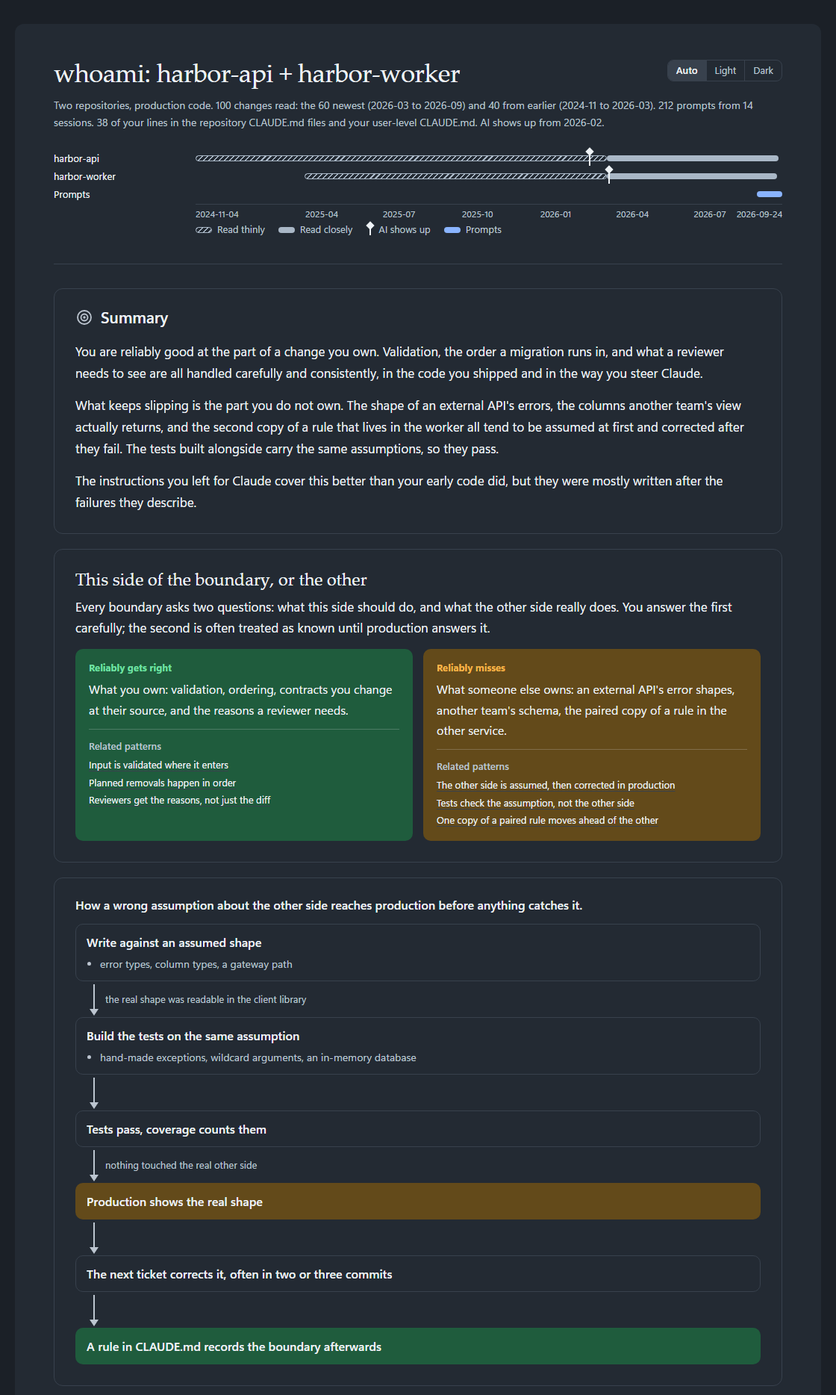
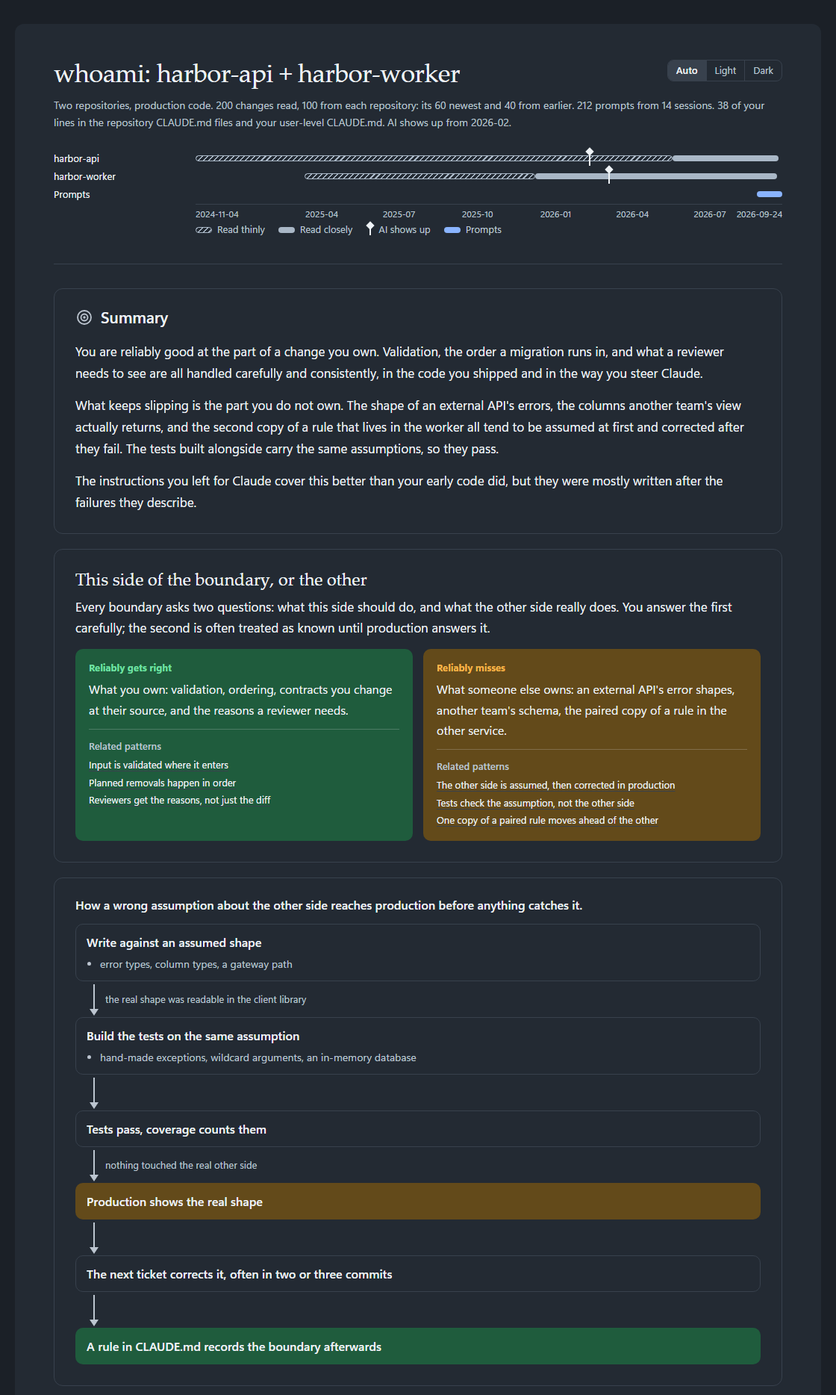
read up to 100 whoami changes per repository

Changed region(s): [[0.0625, 0.0621, 0.875, 0.0931]]

diff --git a/plugins/whoami/skills/whoami/tests/render_report_tests.py b/plugins/whoami/skills/whoami/tests/render_report_tests.py
@@ -1663,8 +1663,8 @@ def _timeline(*repositories, **extra):
 def _tl_full():
     """A timeline with every part over 2026-01-01 to 2026-04-11, which is exactly 100 days,
     so a day's offset from the first date is its position in percent."""
-    return _timeline(_tl_repo("repo-a", "2026-01-01", "2026-04-11", ai_from="2026-01-21"),
-                     recent_from="2026-03-02", prompts={"from": "2026-03-22", "to": "2026-04-11"})
+    return _timeline(_tl_repo("repo-a", "2026-01-01", "2026-04-11", ai_from="2026-01-21", recent_from="2026-03-02"),
+                     prompts={"from": "2026-03-22", "to": "2026-04-11"})
 
 
 def _tl_html(timeline, labels=None):
@@ -1784,12 +1784,29 @@ def test_validation_timeline_dates():
                  where + ": 'ai_from' is not a date written YYYY-MM-DD")
 
     check("no recent_from valid", rr.validate(_doc(timeline=_timeline(repo))), [])
-    # recent_from may fall outside every repository, which reads as every change read closely or thinly
-    check("recent_from outside every span valid",
-          rr.validate(_doc(timeline=_timeline(repo, recent_from="2025-12-01"))), [])
+    # recent_from is the date of one of the repository's own changes, so a day before its span cannot be one
+    _invalid("recent_from before from", _doc(timeline=_timeline(dict(repo, recent_from="2025-12-01"))),
+             where + ": 'recent_from' is outside 'from' to 'to'")
+    _invalid("recent_from after to", _doc(timeline=_timeline(dict(repo, recent_from="2026-05-01"))),
+             where + ": 'recent_from' is outside 'from' to 'to'")
+    # the span's own ends are dates of changes read, so both bounds are inclusive
+    check("recent_from equal to from valid", rr.validate(_doc(timeline=_timeline(dict(repo, recent_from="2026-01-01")))), [])
+    check("recent_from equal to to valid", rr.validate(_doc(timeline=_timeline(dict(repo, recent_from="2026-04-11")))), [])
+    check("null recent_from valid", rr.validate(_doc(timeline=_timeline(dict(repo, recent_from=None)))), [])
     for value in bad:
-        _invalid("recent_from %r" % (value,), _doc(timeline=_timeline(repo, recent_from=value)),
-                 "timeline: 'recent_from' is not a date written YYYY-MM-DD")
+        _invalid("recent_from %r" % (value,), _doc(timeline=_timeline(dict(repo, recent_from=value))),
+                 where + ": 'recent_from' is not a date written YYYY-MM-DD")
+    # a reversed span has no inside, so every recent_from would fall outside it unless the check is skipped,
+    # and one defect should give one message
+    for value in ("2026-04-01", "2026-04-11", "2026-04-12", "2026-05-01"):
+        _invalid("recent_from %s on a reversed span" % value,
+                 _doc(timeline=_timeline(_tl_repo("repo-a", "2026-04-12", "2026-04-11", recent_from=value))),
+                 where + ": 'from' is after 'to'")
+
+    # a well-formed date inside the repository's span, so the only thing wrong is where it sits
+    _invalid("recent_from on the timeline itself", _doc(timeline=_timeline(repo, recent_from="2026-03-02")),
+             "timeline: 'recent_from' belongs on each repository")
+    check("null recent_from on the timeline itself valid", rr.validate(_doc(timeline=_timeline(repo, recent_from=None))), [])
 
     prompts = {"from": "2026-03-22", "to": "2026-04-11"}
     check("no prompts valid", rr.validate(_doc(timeline=_timeline(repo))), [])
@@ -1813,10 +1830,10 @@ def test_validation_timeline_dates():
 def test_validation_timeline_problem_order():
     timeline = _timeline(_tl_repo("repo-a", "2026-04-12", "2026-04-11"), 7,
                          {"name": "", "from": "2026-1-1", "to": "2026-02-30", "ai_from": "soon"},
-                         recent_from="2026-13-01", prompts={"from": "2026-04-11", "to": "2026-04-01"})
+                         recent_from="2026-03-01", prompts={"from": "2026-04-11", "to": "2026-04-01"})
     doc = _without(_doc(diagrams=[{"lanes": [_lane([_step("a")])]}], timeline=timeline), "scope")
     # written by hand in the order the schema is walked: the diagrams, then each repository field by field,
-    # then recent_from, then the prompts, then the scope
+    # then the recent_from the timeline itself carries, then the prompts, then the scope
     _invalid_all("timeline problems between the diagrams and the scope", doc, [
         "diagrams[0]: 'caption' is missing or empty",
         "timeline.repositories[0]: 'from' is after 'to'",
@@ -1825,9 +1842,26 @@ def test_validation_timeline_problem_order():
         "timeline.repositories[2]: 'from' is not a date written YYYY-MM-DD",
         "timeline.repositories[2]: 'to' is not a date written YYYY-MM-DD",
         "timeline.repositories[2]: 'ai_from' is not a date written YYYY-MM-DD",
-        "timeline: 'recent_from' is not a date written YYYY-MM-DD",
+        "timeline: 'recent_from' belongs on each repository",
         "timeline.prompts: 'from' is after 'to'",
         "document: 'scope' is missing or empty"])
+
+    # on the second repository, so a path built from the wrong counter names the wrong one
+    timeline = _timeline(_tl_repo("repo-a", "2026-01-01", "2026-04-11"),
+                         _tl_repo("repo-b", "2026-01-01", "2026-04-11", ai_from="soon", recent_from="2026-05-01"))
+    # written by hand in the order the validator reads the fields: ai_from before recent_from
+    _invalid_all("a repository's ai_from before its recent_from", _doc(timeline=timeline), [
+        "timeline.repositories[1]: 'ai_from' is not a date written YYYY-MM-DD",
+        "timeline.repositories[1]: 'recent_from' is outside 'from' to 'to'"])
+
+    # both dates malformed, so the order of the two date checks shows,
+    # where the well-formed recent_from above only shows the span check coming after both
+    timeline = _timeline(_tl_repo("repo-a", "2026-01-01", "2026-04-11"),
+                         _tl_repo("repo-b", "2026-01-01", "2026-04-11", ai_from="soon", recent_from="2026-02-30"))
+    # written by hand in the order the validator reads the fields: ai_from before recent_from
+    _invalid_all("a repository's malformed ai_from before its malformed recent_from", _doc(timeline=timeline), [
+        "timeline.repositories[1]: 'ai_from' is not a date written YYYY-MM-DD",
+        "timeline.repositories[1]: 'recent_from' is not a date written YYYY-MM-DD"])
 
 
 def test_timeline_html_full():
@@ -1840,7 +1874,7 @@ def test_timeline_html_full():
 def test_timeline_thin_close_split():
     repo = _tl_repo("repo-a", "2026-01-01", "2026-04-11")
     # written by hand over the 100 days from 2026-01-01, where 2026-03-02 is day 60.
-    # recent_from outside the span leaves the domain alone, or these positions would shift
+    # recent_from never enters the domain, or these positions would shift
     for name, recent, want in (
             ("no recent_from draws one close bar", None,
              _seg("close", "0.00", "100.00", "2026-01-01", "2026-04-11")),
@@ -1850,27 +1884,26 @@ def test_timeline_thin_close_split():
             ("recent_from on the last day draws only thin", "2026-04-11",
              _seg("thin", "0.00", "100.00", "2026-01-01", "2026-04-11")),
             ("recent_from on the first day draws only close", "2026-01-01",
-             _seg("close", "0.00", "100.00", "2026-01-01", "2026-04-11")),
-            ("recent_from before the span draws only close from the start", "2025-12-01",
-             _seg("close", "0.00", "100.00", "2026-01-01", "2026-04-11")),
-            ("recent_from after the span draws only thin up to the end", "2026-05-01",
-             _seg("thin", "0.00", "100.00", "2026-01-01", "2026-04-11"))):
+             _seg("close", "0.00", "100.00", "2026-01-01", "2026-04-11"))):
         extra = {"recent_from": recent} if recent else {}
-        figure = _tl_html(_timeline(repo, **extra))
+        figure = _tl_html(_timeline(dict(repo, **extra)))
         check(name, _tl_track(figure, "repo-a"), want)
         check(name + ": the axis still ends on the repository's dates",
               ('<span class="tl-tick start">2026-01-01</span>' in figure, '<span class="tl-tick end">2026-04-11</span>' in figure),
               (True, True))
 
-    # one recent_from cuts each repository by its own span
-    figure = _tl_html(_timeline(repo, _tl_repo("repo-b", "2026-03-22", "2026-04-11"),
-                                _tl_repo("repo-c", "2026-01-01", "2026-01-21"), recent_from="2026-03-02"))
-    # written by hand: repo-b starts on day 80, after recent_from, and repo-c ends on day 20, before it
+    # each repository carries its own recent_from, so each row is cut at its own boundary
+    figure = _tl_html(_timeline(dict(repo, recent_from="2026-03-02"),
+                                _tl_repo("repo-b", "2026-03-22", "2026-04-11", recent_from="2026-04-01"),
+                                _tl_repo("repo-c", "2026-01-01", "2026-01-21")))
+    # written by hand: repo-a is cut on day 60 (2026-03-02), repo-b runs from day 80 and is cut on day 90 (2026-04-01),
+    # and repo-c, with no recent_from, is one close bar from day 0 to day 20
     check("each repository split by its own span", [_tl_track(figure, n) for n in ("repo-a", "repo-b", "repo-c")], [
         _seg("thin", "0.00", "60.00", "2026-01-01", "2026-03-02")
         + _seg("close", "60.00", "40.00", "2026-03-02", "2026-04-11"),
-        _seg("close", "80.00", "20.00", "2026-03-22", "2026-04-11"),
-        _seg("thin", "0.00", "20.00", "2026-01-01", "2026-01-21")])
+        _seg("thin", "80.00", "10.00", "2026-03-22", "2026-04-01")
+        + _seg("close", "90.00", "10.00", "2026-04-01", "2026-04-11"),
+        _seg("close", "0.00", "20.00", "2026-01-01", "2026-01-21")])
     check("a row per repository in document order, then the axis", _tl_names(figure), ["repo-a", "repo-b", "repo-c", ""])
 
 
@@ -1919,13 +1952,13 @@ def test_timeline_legend():
     # written by hand: only the key for what the figure draws
     check("a close bar alone keys only close", _tl_legend(_tl_html(_timeline(repo))),
           '<span class="tl-key"><i class="tl-seg close"></i>Read closely</span>')
-    check("a thin bar alone keys only thin", _tl_legend(_tl_html(_timeline(repo, recent_from="2026-04-11"))),
+    check("a thin bar alone keys only thin", _tl_legend(_tl_html(_timeline(dict(repo, recent_from="2026-04-11")))),
           '<span class="tl-key"><i class="tl-seg thin"></i>Read thinly</span>')
 
     # the kinds are drawn close, then AI, then thin, then prompts, so a legend in drawing order would differ
-    figure = _tl_html(_timeline(_tl_repo("repo-a", "2026-03-22", "2026-04-11", ai_from="2026-04-01"),
-                                _tl_repo("repo-b", "2026-01-01", "2026-03-22"),
-                                recent_from="2026-03-22", prompts={"from": "2026-01-01", "to": "2026-01-21"}))
+    figure = _tl_html(_timeline(_tl_repo("repo-a", "2026-03-22", "2026-04-11", ai_from="2026-04-01", recent_from="2026-03-22"),
+                                _tl_repo("repo-b", "2026-01-01", "2026-03-22", recent_from="2026-03-22"),
+                                prompts={"from": "2026-01-01", "to": "2026-01-21"}))
     check("fixture: close is drawn before thin", (_tl_track(figure, "repo-a").startswith('<span class="tl-seg close"'),
                                                   _tl_track(figure, "repo-b").startswith('<span class="tl-seg thin"')),
           (True, True))
@@ -1984,8 +2017,9 @@ def test_timeline_escaping():
     m, e = _markup, _escaped
     labels = _all_labels({"timeline_thin": m("thin"), "timeline_close": m("close"), "timeline_ai": m("ai"),
                           "timeline_prompts": m("prompts")})
-    doc = _doc(timeline=_timeline(_tl_repo(m("repo"), "2026-01-01", "2026-04-11", ai_from="2026-01-21"),
-                                  recent_from="2026-03-02", prompts={"from": "2026-03-22", "to": "2026-04-11"}),
+    doc = _doc(timeline=_timeline(_tl_repo(m("repo"), "2026-01-01", "2026-04-11", ai_from="2026-01-21",
+                                           recent_from="2026-03-02"),
+                                  prompts={"from": "2026-03-22", "to": "2026-04-11"}),
                labels=labels)
     check("fixture: markup timeline document is valid", rr.validate(doc), [])
     page = _html(doc)

diff --git a/plugins/whoami/skills/whoami/scripts/render_report.py b/plugins/whoami/skills/whoami/scripts/render_report.py
@@ -264,6 +264,7 @@ def validate_timeline(timeline):
         start, end = day(obj, "from", where), day(obj, "to", where)
         if start and end and start > end:
             problems.append("%s: 'from' is after 'to'" % where)
+        return start, end
 
     if not isinstance(timeline, dict):
         return ["'timeline' is not an object"]
@@ -278,9 +279,15 @@ def validate_timeline(timeline):
             continue
         if not isinstance(repo.get("name"), str) or not repo["name"]:
             problems.append("%s: 'name' is missing or empty" % where)
-        span(repo, where)
+        start, end = span(repo, where)
         day(repo, "ai_from", where, required=False)
-    day(timeline, "recent_from", "timeline", required=False)
+        recent = day(repo, "recent_from", where, required=False)
+        # the newest changes are read closely from recent_from on, so it is the date of one of the changes read
+        if recent and start and end and start <= end and not start <= recent <= end:
+            problems.append("%s: 'recent_from' is outside 'from' to 'to'" % where)
+    # each repository samples its own history, so a single date would cut every row at a boundary only one of them has
+    if timeline.get("recent_from") is not None:
+        problems.append("timeline: 'recent_from' belongs on each repository")
     prompts = timeline.get("prompts")
     if prompts is not None:
         if isinstance(prompts, dict):
@@ -586,7 +593,6 @@ def theme_switch(lab):
 def timeline_html(timeline, lab):
     day = datetime.date.fromisoformat
     repositories = timeline["repositories"]
-    recent = day(timeline["recent_from"]) if timeline.get("recent_from") else None
     prompts = timeline.get("prompts")
     dates = [day(r[k]) for r in repositories for k in ("from", "to", "ai_from") if r.get(k)]
     if prompts:
@@ -605,6 +611,7 @@ def timeline_html(timeline, lab):
     rows, kinds = [], set()
     for r in repositories:
         start, end = day(r["from"]), day(r["to"])
+        recent = day(r["recent_from"]) if r.get("recent_from") else None
         parts = []
         # the older changes are a thin sample spread across the history, so they are drawn apart from the newest,
         # which were all read, rather than as one bar that claims the whole span was read alike

diff --git a/plugins/whoami/CLAUDE.md b/plugins/whoami/CLAUDE.md
@@ -27,7 +27,9 @@ One skill, a `SKILL.md`, and two scripts: `scripts/extract_prompts.py` gets the 
 - **The scope is only what the user passes, and the default is the current repository.** An earlier design scanned for every repository on the machine. That reaches repositories the user has never opened in Claude, which is new exposure the user did not choose.
 - **All code is read, whoever typed it, and nobody is asked when AI started.** An earlier version read only a hand-written period the person gave, and it failed on its own premise: in one trial the person answered "all hand-written" for a repository whose commits carried a review pipeline's reports and learnings files, because nobody remembers the date. Detecting AI-written code from its style was tried and failed too. Matching commits against the transcripts' own file edits was measured and found one of fourteen commits in a repository that was wholly AI-implemented. And the premise itself was wrong: code a model wrote under the person's direction shipped under their name, shaped by what they asked for and what they let through. So every code pattern is described as what shipped, not as what was typed.
 - **The date AI shows up calibrates, and excludes nothing.** It is found from the history: the commit that added `CLAUDE.md` or `.claude/`, the first session, pipeline artefacts, a model's co-author trailer. Step 5 uses it to tell the person's pattern from the tool's default. Seen on both sides of the date, a pattern is the person's. Seen only after, a gap is still the person's, because they let it through, but a strength or a style needs the prompts or instructions to show the person asked for it, or it is conditional. The two were one rule until a trial in a repository where AI took part from the first commit and no prompts survived: the run credited two code-only strengths to the person with the same "you let it through" that rightly kept the gaps theirs, and letting well-made code stand is not a skill.
-- **The sample is weighted to the recent past.** Up to 100 changes: the 60 newest, and 40 spread across everything older. Reading only the newest 50, as an earlier version did, left a heavy AI user's sample almost all after AI showed up, so nothing could tell the person's pattern from the tool's. Spreading evenly would have given old habits the same weight as current ones. A pattern seen only in the older sample is reported as how the person used to work.
+- **The sample is weighted to the recent past.** Up to 100 changes in each repository: the 60 newest, and 40 spread across everything older. Reading only the newest 50, as an earlier version did, left a heavy AI user's sample almost all after AI showed up, so nothing could tell the person's pattern from the tool's. Spreading evenly would have given old habits the same weight as current ones. A pattern seen only in the older sample is reported as how the person used to work.
+- **The sample is taken per repository, with no total across them.** A total of 100 spread over the repositories, as the first multi-repository run read it, thins each one below what step 5 needs, since the calibration against other authors and the constraint checks work inside one repository. A total cap with a share for each repository was worked through and dropped: a person most often names one repository or two or three, where a cap of three hundred would never bind, and the rule for the rare case of many would have been guesses stacked on guesses. So a scope of more than three repositories carries a hint that each adds time and tokens, and the person decides. A clone kept only for reading costs little, because it holds none of their changes.
+- **The older sample is spread in commit order, not by calendar.** A stretch of heavy work, such as a large feature months before the recent past, then gets its share of the sample, where one change per stretch of calendar would give it no more than a quiet stretch. Reading such a stretch as closely as the newest changes was considered and declined: the newest are read closely because they show how the person works now, and finding the heavy stretches would be one more judgement to vary between runs. Weighting by the size of a commit was declined for the same reason, since a large commit is read whole when it is picked.
 - **Code is read by fresh subagents in parallel, never by forks.** A single reader over fifty commits kept the person waiting. The model's own first attempt at parallel reading used forks, and the four forks read over five times the tokens the session did, because a fork carries the whole session into every call. A fresh subagent gets only a brief. Batches are sized by changed lines as well as by count, because a reader's context grows with what it reads: fourteen large commits went to four readers in one trial, and each still reached about 200,000 tokens. Each batch also returns its single events, because two events in two batches can make a pattern no batch sees.
 - **The default branch only.** Squash merges put the shipped change there, and backports repeat it on release branches, which would count one change twice and fake a "fixed in several places" pattern.
 - **Other authors only in aggregate.** Calibration looks at the rest of the repository to drop what is the repository's convention rather than the person's. A per-person figure for anyone else is a workplace-monitoring output this plugin must never produce.
@@ -69,7 +71,7 @@ The model writes the report as a JSON document following `skills/whoami/report-s
 - **The Markdown summary is the session's last message, so it has to stand on its own.** In one trial it listed each implication's area and related patterns and left out what the implication meant, which was the one part a reader needed, and a cell of four pattern names wrapped and broke the table. So implications are a list of area and meaning, and the summary opens with the scope, as the HTML opens with the timeline.
 - **Two plain-language rules are checked, not asked for.** A commit SHA in a field shown before the reader expands anything fails validation, because the rule was broken in two trial runs, and a SHA is the one identifier that can be told from ordinary words. Labels are all or none, because a label left out fell back to English in a report written in Chinese.
 - **No charting library.** d3 was considered and declined: it would either load from a CDN, breaking the offline page, or add a few hundred kilobytes to every report; its SVG text does not wrap, which is the failure the CSS boxes remove; the diagrams hold steps rather than data; and a page drawn by script cannot be checked by the renderer's known-answer tests.
-- **One chart, the timeline, and only of dates.** Donuts and bars of the scope's counts were considered and declined: the counts describe the sample rather than the person, a chart of them draws the eye away from the conclusion, a gadget reading "2 prompts" looks like a low score, and a count the model writes cannot be checked by the renderer. The timeline earns its place because it shows what the conclusion rests on. In one trial the code covered ten months and the prompts two days, which the scope line stated and nobody would notice. It sits above the conclusion for that reason, it draws the thin older sample hatched apart from the newest changes, which were all read, and every date in it is measured.
+- **One chart, the timeline, and only of dates.** Donuts and bars of the scope's counts were considered and declined: the counts describe the sample rather than the person, a chart of them draws the eye away from the conclusion, a gadget reading "2 prompts" looks like a low score, and a count the model writes cannot be checked by the renderer. The timeline earns its place because it shows what the conclusion rests on. In one trial the code covered ten months and the prompts two days, which the scope line stated and nobody would notice. It sits above the conclusion for that reason, it draws the thin older sample hatched apart from the newest changes, which were all read, at each repository's own boundary, and every date in it is measured.
 - **Each block of content is a card, and text fills it.** Each section is a card: the summary text, each axis, each diagram, and each table. The header is the exception, set apart by a rule, because it describes the report rather than being part of it. The summary section is a run of cards rather than one card, so nothing is framed twice. Text used to be held to 70ch for Latin readability, and then lifted for Chinese, Japanese, and Korean, whose characters are twice as wide. Inside a card, a line stopping at seven tenths of the width read as broken, so the measure was dropped for every language. A line of about 100 characters is longer than typography's ideal, but a report's paragraphs run two or three lines. The last table row draws no rule, because the card's border already closes the table.
 - **A colour scheme switch without a script.** The page follows the system's light or dark setting, and an Auto, Light, and Dark switch overrides it, built from radio buttons that CSS reads with `:has()`. The choice is not remembered between openings, which would need a script and storage. That was judged not worth it for a report a person reads a few times.
 - **It loads nothing.** Styles are inline and there is no script, so the page opens offline and sends nothing anywhere. The evidence and the appendix collapse with `<details>`, which needs no script.

diff --git a/plugins/whoami/skills/whoami/SKILL.md b/plugins/whoami/skills/whoami/SKILL.md
@@ -30,7 +30,7 @@ State what you read from the request in the confirmation, so a misreading is cau
 
 Read code **through git** only: `git log`, `git show <sha>`, `git show <sha>:<path>`, `git grep <pattern> <sha>`, `git blame <sha> -- <path>`. Leave the working tree alone, so untracked and ignored files (local settings, secrets, unfinished work) stay out of the analysis whatever the scope directory holds. The one exception is the instruction files step 3 names, read by name and never by listing the tree. In Git Bash on Windows, set `MSYS_NO_PATHCONV=1` for any command that takes `<rev>:<path>`, because the shell otherwise rewrites the argument into a Windows path.
 
-Confirm the repositories, the language, and the sources in one AskUserQuestion call. Say plainly what each source sends to the model:
+Confirm the repositories, the language, and the sources in one AskUserQuestion call. When the scope holds more than three repositories, say that each repository with the person's changes adds time and tokens, and that one without them is skipped quickly. Say plainly what each source sends to the model:
 
 - **code**: the diffs of their commits and the code around them, the same way a file reaches the model when they ask Claude to read it;
 - **prompts**: only the text they typed, with pasted content replaced by its size, from the transcripts on this machine. Those prompts reached the model once already, when they were typed. The transcripts go back only as far as Claude Code's retention setting keeps them;
@@ -62,7 +62,7 @@ Done when the person has confirmed their identities.
 
 Leave out what was not authored, judged by shape: **generated files**, meaning many similar files added in one commit under the path the ecosystem's tool writes to (migrations a tool generated, lock files, clients generated from a spec), and **imports**, meaning a large commit that only adds files and deletes nothing. A large commit that changes existing files is authored work however many files it touches, so read a sample of it rather than leaving it out.
 
-Read up to 100 changes, unless the person asked for a different number: the 60 newest, and 40 spread evenly across everything older. The recent past is read densely because it shows how the person works now. The older history is read thinly, but it is read, because step 5 needs instances from before AI shows up, and a gap that stops appearing is worth reporting too. With 100 or fewer changes, read them all. Read them a commit at a time.
+Read up to 100 changes in each repository, unless the person asked for a different number: the 60 newest, and 40 spread evenly across everything older, taking every so many changes in commit order rather than one per stretch of calendar, so a period of heavy work gets its share of the sample. The recent past is read densely because it shows how the person works now. The older history is read thinly, but it is read, because step 5 needs instances from before AI shows up, and a gap that stops appearing is worth reporting too. With 100 or fewer changes in a repository, read them all. Read them a commit at a time.
 
 **Where AI shows up.** For each repository, find the earliest evidence that an AI tool took part: the commit that added `CLAUDE.md` or `.claude/`, the first Claude Code session in the repository, a pipeline's artefacts committed alongside the code (review reports, learnings files), or a `Co-Authored-By` trailer naming a model. This date excludes nothing. It lets step 5 ask whether a code pattern is the person's or the tool's, and it goes in the scope. When there is no such evidence, say so.
 
@@ -150,7 +150,7 @@ Write the report as one JSON document in the language from step 1, with its `lan
 - **Diagrams**: add one wherever a shape explains better than a sentence, such as how a kind of defect gets found or missed, or how the axis plays out. Give it as structure, steps in lanes as the schema describes, never as text drawn into boxes. One idea per diagram, and a comparison as lanes side by side in one diagram. Each diagram shows an axis or a pattern from the report, never a dimension the conclusion does not name.
 - **Strengths, gaps, and styles**: each pattern that holds or narrowed, stated in its narrowed form. Its confidence is `verified`, or `depends` with the constraint for a conditional one. Describe a code pattern as what shipped under the person's name, not as what they typed.
 - **Implications**: what the axis means for how the person works. Say where a strength is leverage, where a gap will recur, and what their standing rules do not yet cover. Stay at the level of the pattern. How to fix a particular piece of code is not this report's subject.
-- **Timeline**: the dates behind the scope, taken from what you read rather than estimated. For each repository, the dates of the oldest and newest changes read, from `git log`, and the date AI shows up. For the sample, the date where the newest changes begin. For the prompts, the first and last timestamps `extract_prompts.py` returned.
+- **Timeline**: the dates behind the scope, taken from what you read rather than estimated. For each repository, the dates of the oldest and newest changes read, from `git log`, and the date AI shows up. For each repository's sample, the date where its newest changes begin. For the prompts, the first and last timestamps `extract_prompts.py` returned.
 - **Scope**: the repositories and where AI shows up in each, the identities, how many changes were read from the recent past and from the older history and the dates each covers, how many sessions and rules were read, the dates the prompts span, and what was left out and why.
 - **Dissolved** candidates and single **events** go in the appendix, which the HTML keeps collapsed.
 

diff --git a/plugins/whoami/skills/whoami/report-schema.md b/plugins/whoami/skills/whoami/report-schema.md
@@ -10,9 +10,8 @@ The report is one JSON document, written in the person's language, which `script
   "title": "whoami: acme-orders",
   "scope_line": "one line: the repositories, how much was read, and where AI involvement shows",
   "timeline": {
-    "recent_from": "2026-03-02",
     "repositories": [
-      { "name": "acme-orders", "from": "2024-11-04", "to": "2026-09-20", "ai_from": "2026-02-10" }
+      { "name": "acme-orders", "from": "2024-11-04", "to": "2026-09-20", "ai_from": "2026-02-10", "recent_from": "2026-06-15" }
     ],
     "prompts": { "from": "2026-08-25", "to": "2026-09-24" }
   },
@@ -74,7 +73,7 @@ A `PATTERN` is:
 }
 ```
 
-- The **timeline** is drawn under the scope line, above the conclusion, so the reader sees what the conclusion rests on before reading it. Every date is written `YYYY-MM-DD` and is one you measured, never an estimate. A repository's `from` and `to` are the dates of the oldest and newest of its changes you read. `recent_from` is the date of the oldest of the newest changes you read closely, and the changes before it are drawn as the thinner sample; leave it out when you read every change. `ai_from` is the date of the earliest evidence that AI took part, left out when there is none. `prompts` spans the first and last prompt you read, left out when you read none. The timeline is optional, and the Markdown summary leaves it to the scope line.
+- The **timeline** is drawn under the scope line, above the conclusion, so the reader sees what the conclusion rests on before reading it. Every date is written `YYYY-MM-DD` and is one you measured, never an estimate. A repository's `from` and `to` are the dates of the oldest and newest of its changes you read. A repository's `recent_from` is the date of the oldest of its newest changes, the ones you read closely, and its changes before that date are drawn as the thinner sample. Each repository has its own, because each is sampled on its own. Leave it out for a repository whose changes you read every one of. The renderer rejects a `recent_from` outside the repository's `from` and `to`, and one given for the whole timeline. `ai_from` is the date of the earliest evidence that AI took part, left out when there is none. `prompts` spans the first and last prompt you read, left out when you read none. The timeline is optional, and the Markdown summary leaves it to the scope line.
 - A **diagram** is structure, never text drawn as boxes: a text-drawn box misaligns as soon as it holds CJK characters. Each lane is a flow read top to bottom, one step per box, with an arrow between consecutive steps. Put a comparison in two or three lanes of one diagram, which sit side by side, rather than in separate diagrams. A step's `tone` is `neutral`, `strong` for what the person reliably gets right, or `weak` for what they reliably miss, and it takes the same colours as the axes. Every diagram needs a `caption`, which the HTML and the Markdown summary both show as the diagram's title above it, every lane of a diagram with more than one lane needs a `title`, and a diagram holds at most three lanes: the Markdown summary lists each lane as a numbered list, and only a caption or a title keeps one list from running into the next. `detail` is a list of text. A `note` on a lane's last step has no arrow to label and is not shown.
 - `strengths`, `gaps`, and `styles` are separate lists. A **style** is a way of working that is neither a strength nor a gap: a trade-off, stated with what it `gives` and what it `costs`.
 - A pattern that narrowed is stated in its narrowed form, with `verified` confidence.

diff --git a/plugins/whoami/README.md b/plugins/whoami/README.md
@@ -27,7 +27,7 @@ Run `/reload-plugins` afterwards to activate it.
 
 Say in your own words which repositories to read and which language to write the report in. A relative path is read from the directory you are in. It shows what it understood before it reads anything, so a misreading costs one answer. Without a language, it writes in the one you have been using with Claude. The report is long, so ask for the language you read most easily.
 
-It reads up to 100 of your changes: the 60 newest closely, and 40 spread across everything older, so the report reflects how you work now and still sees how you used to.
+It reads up to 100 of your changes in each repository: the 60 newest closely, and 40 spread across everything older, so the report reflects how you work now and still sees how you used to. Each repository with your changes adds time and tokens, and one that holds none of them is skipped quickly.
 
 It asks you only what the material cannot show, before it reads anything: which repositories and sources to include, and which commit identities are yours. It does not ask when you started using AI. Code a model wrote under your direction still shipped under your name, so it reads all of it, and it finds the date AI shows up in each repository from the history itself. That date lets it tell a pattern of yours from a habit of the tool: a pattern seen before and after it is yours. Seen only after it, a gap is still yours, because you let it through, but a strength counts as yours only when your prompts or instructions show you asked for it.
 
